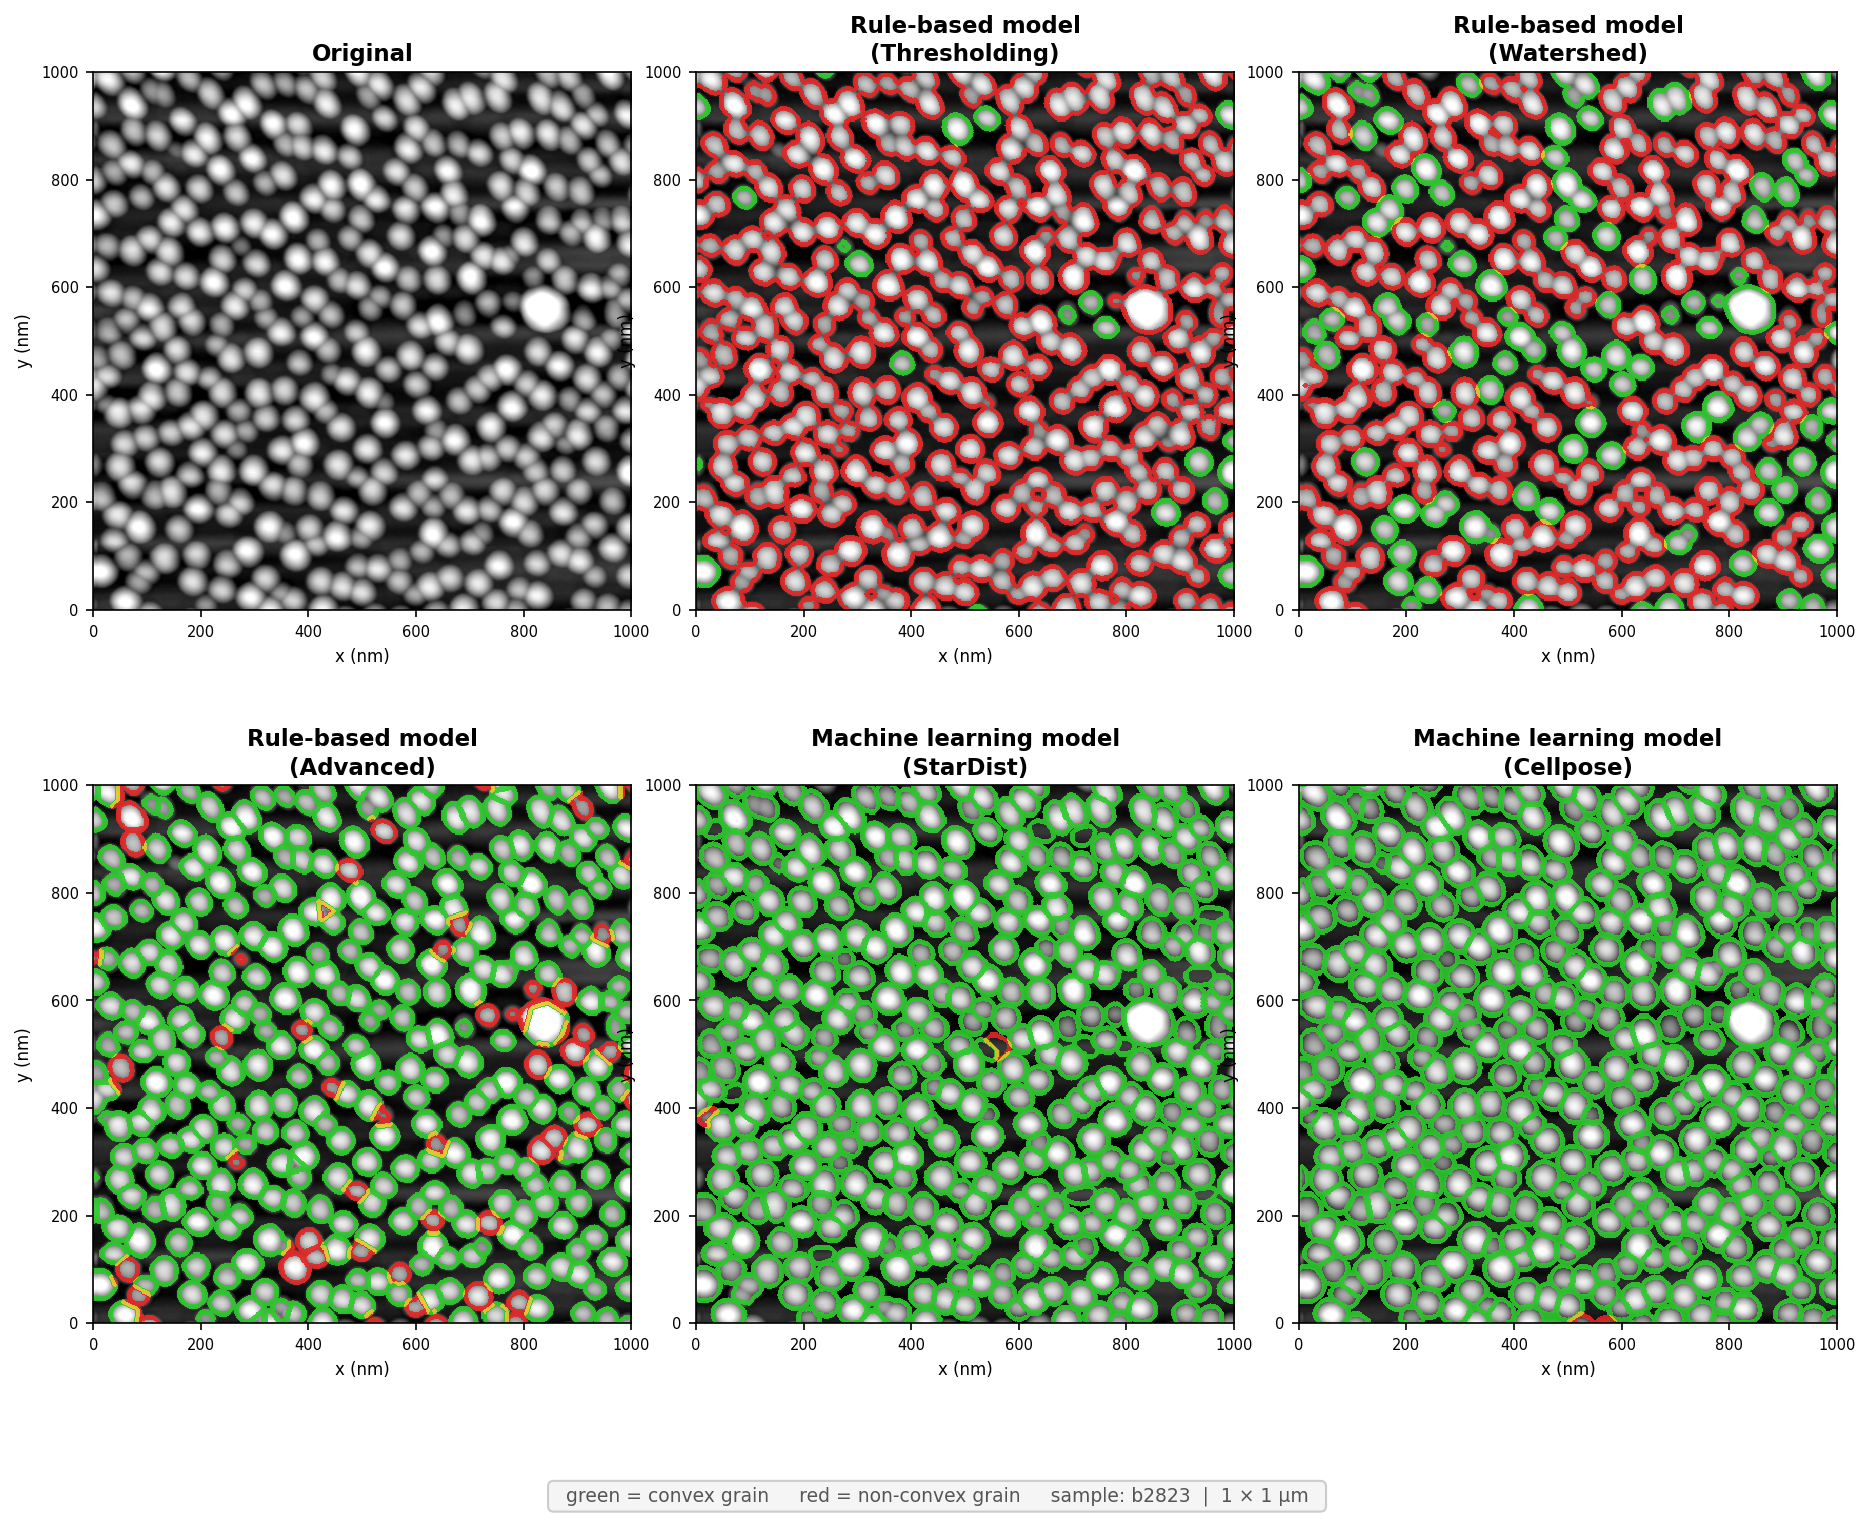
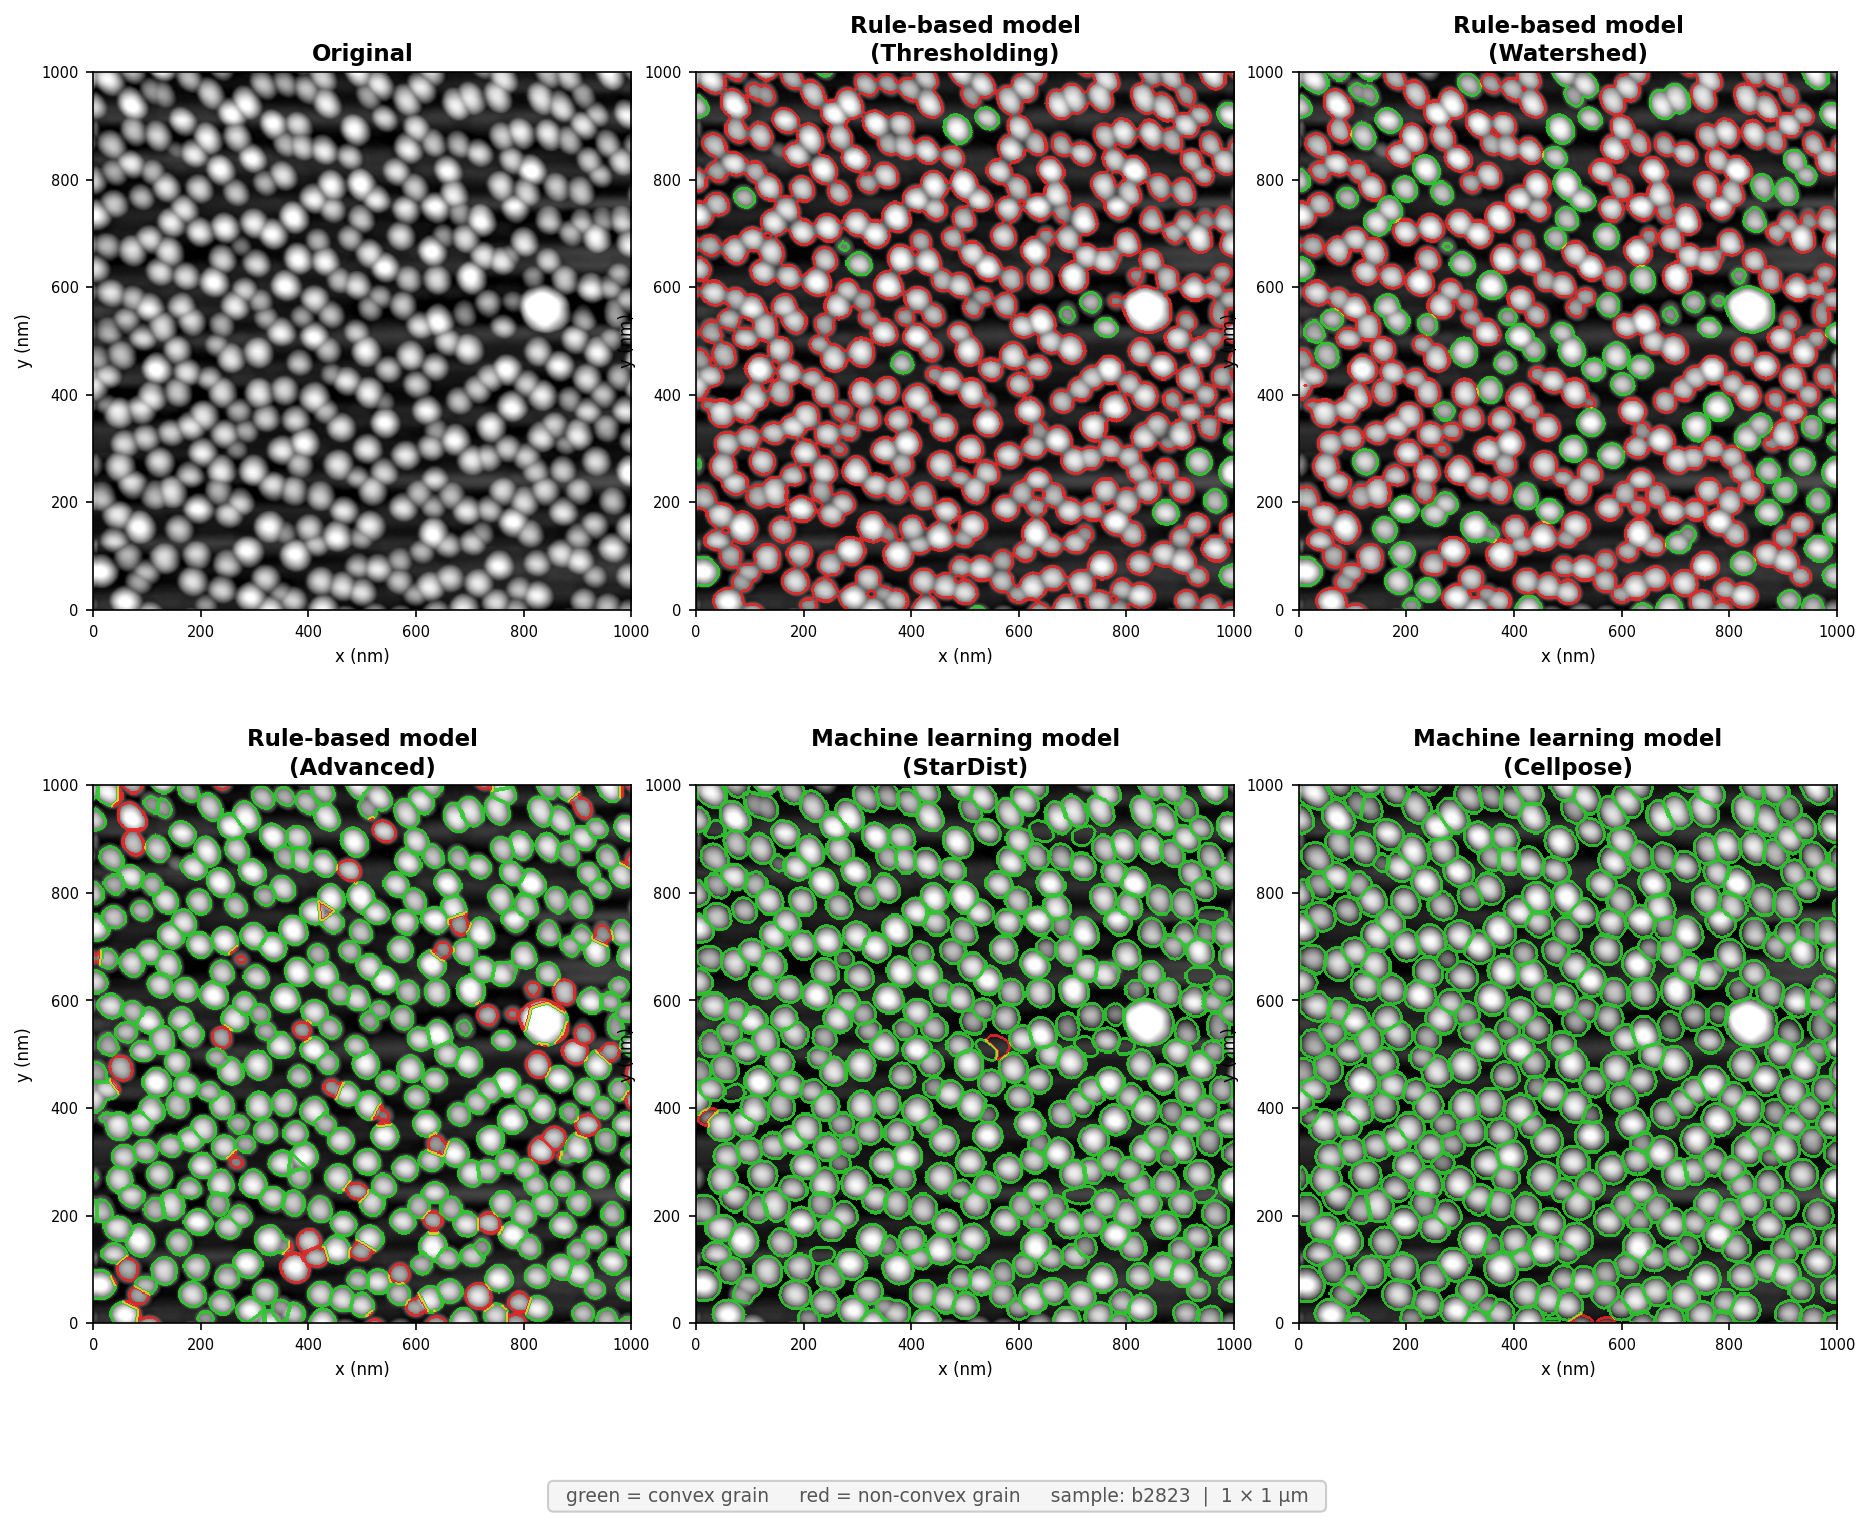
docs: reduce boundary thickness to 1 in demo image

diff --git a/make_demo_image.py b/make_demo_image.py
@@ -87,7 +87,7 @@ def solidity_boundary_rgba(labels: np.ndarray,
                             convex_color=(0.18, 0.80, 0.18),
                             nonconvex_color=(0.90, 0.15, 0.15),
                             alpha: float = 0.9,
-                            thickness: int = 2) -> np.ndarray:
+                            thickness: int = 1) -> np.ndarray:
     """Return RGBA overlay where grain boundaries are coloured by solidity."""
     from skimage.morphology import dilation, disk
     rgba = np.zeros((*labels.shape, 4), dtype=np.float32)
